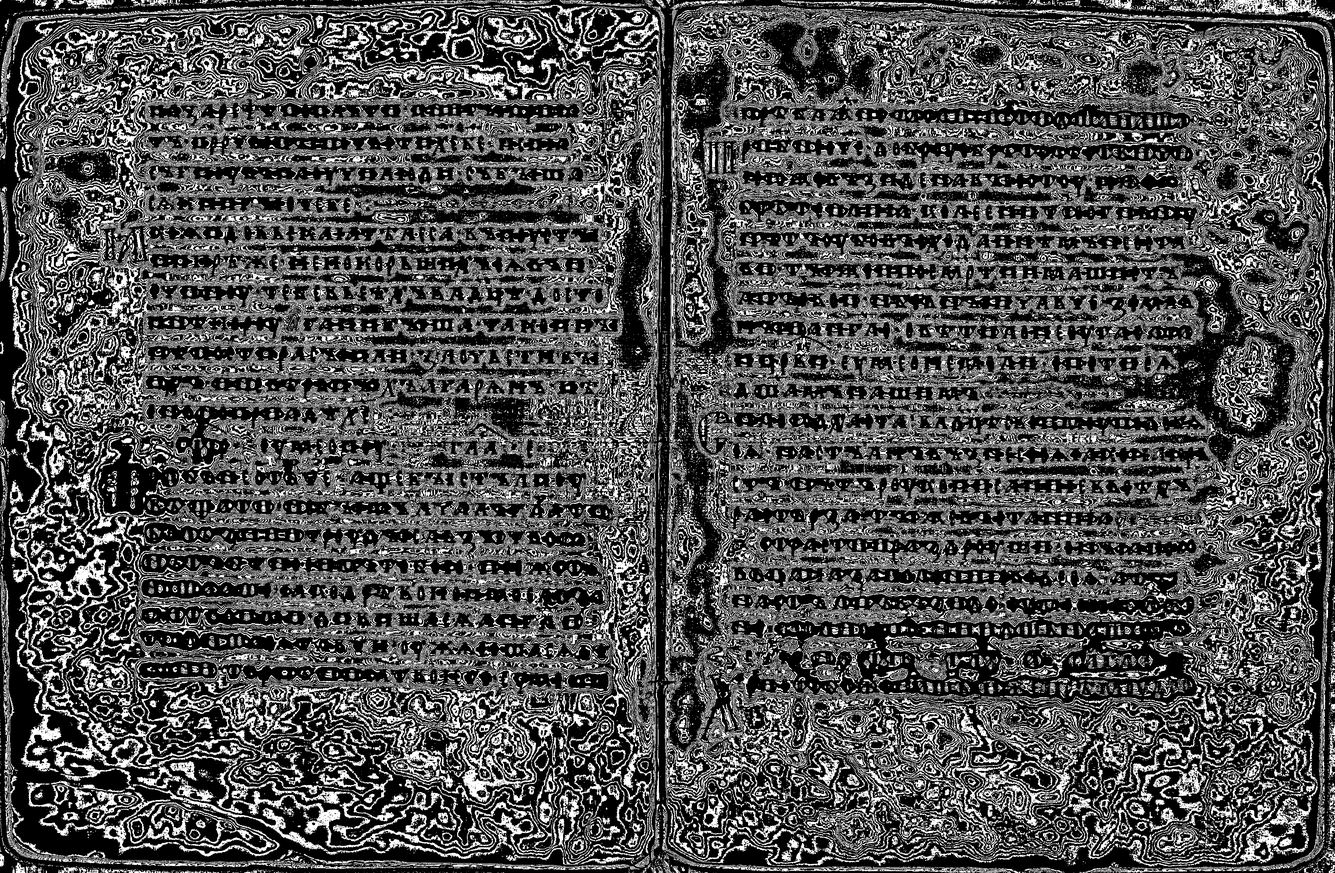
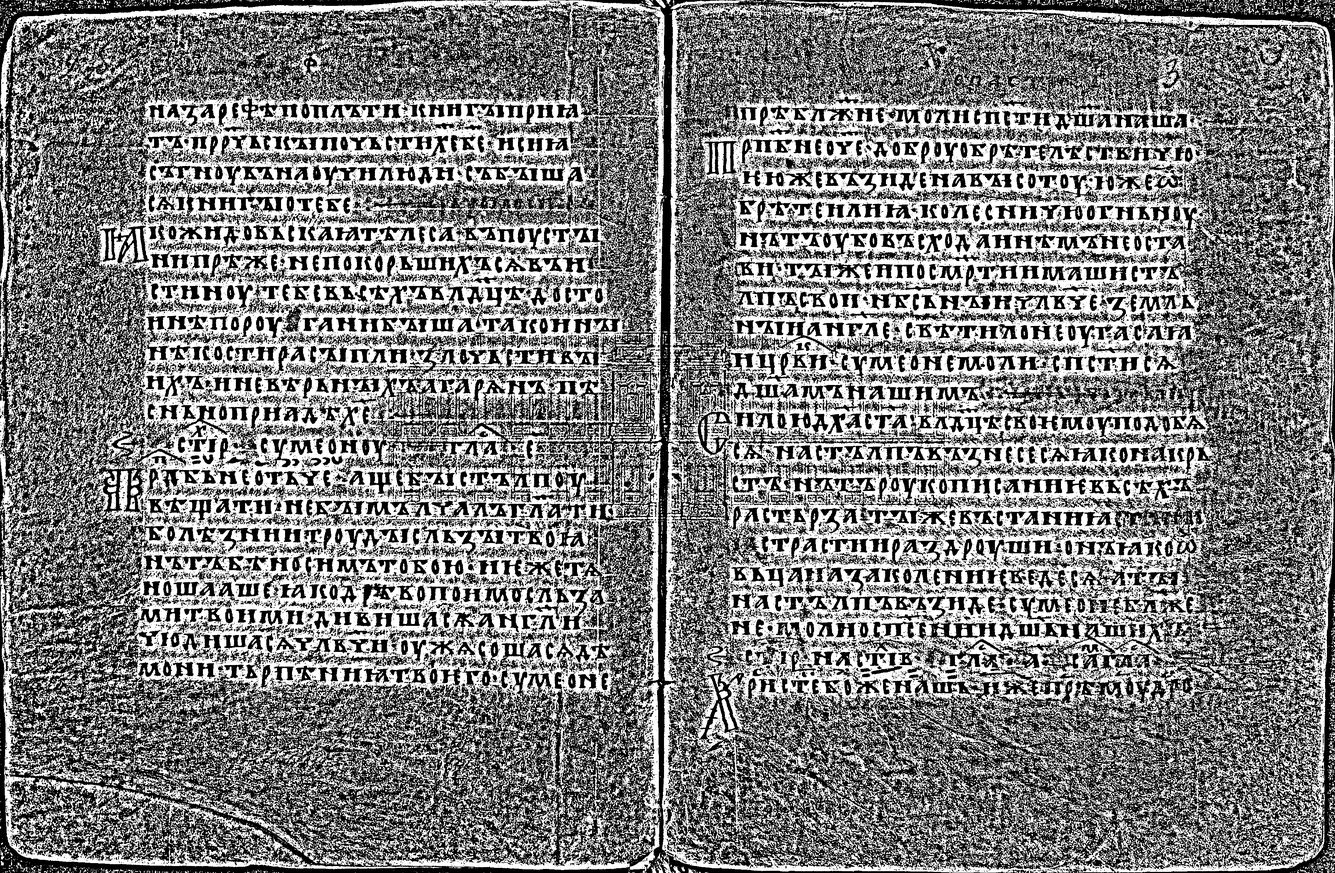
Second lab best parameters variant

diff --git a/2sem/results/2.11/main.py b/2sem/results/2.11/main.py
@@ -13,7 +13,7 @@ def to_semitone(img_name):
     return Image.fromarray(semitone(img), 'L')
 
 
-def nibleck(image, window_size=15, block_size=15, offset=10, k1=0.2, k2 = 0.01, a1=0.1, R=128, gamma = 2):
+def tan(image, window_size=15, k1=0.2, k2 = 0.01, a1=0.1, R=128, gamma = 2):
     image = to_semitone(image)
     img_array = np.array(image)
 
@@ -22,36 +22,13 @@ def nibleck(image, window_size=15, block_size=15, offset=10, k1=0.2, k2 = 0.01, 
     mean_sq = Image.fromarray(img_array).filter(ImageFilter.BoxBlur(window_size)).convert('L').point(lambda x: x ** 2)
     mean_sq_array = np.array(mean_sq)
     variance = mean_sq_array - mean_array ** 2
-
     M = np.min(img_array)
-    a2 = k1 * (variance / R) ** gamma
-    a3 = k2 * (variance / R) ** gamma
+    a2 = k1 * ((variance / R) ** gamma)
+    a3 = k2 * ((variance / R) ** gamma)
     threshold = (1 - a1) * mean_array + a2 * variance / R * (mean_array - M) + a3 * M
-    #threshold = mean_array + k * np.sqrt(variance)
     binary_array = np.where(img_array > threshold, 255, 0).astype(np.uint8)
     binary_image = Image.fromarray(binary_array)
 
-    # height, width = img_array.shape
-    # binary_image = np.zeros_like(img_array)
-    #
-    # for i in range(0, height, block_size):
-    #     for j in range(0, width, block_size):
-    #         block = img_array[i:i+block_size, j:j+block_size]
-    #         #mean_intensity = np.mean(block)
-    #         #threshold = mean_intensity - offset
-    #         mean = Image.fromarray(img_array).filter(ImageFilter.BoxBlur(window_size)).convert('L')
-    #         mean_array = np.array(mean)
-    #         mean_sq = Image.fromarray(img_array).filter(ImageFilter.BoxBlur(window_size)).convert('L').point(lambda x: x ** 2)
-    #         mean_sq_array = np.array(mean_sq)
-    #         variance = mean_sq_array - mean_array ** 2
-    #         M = np.min(img_array)
-    #         a2 = k1 * (variance / R) ** gamma
-    #         a3 = k2 * (variance / R) ** gamma
-    #         threshold = (1 - a1) * mean_array + a2 * variance / R * (mean_array - M) + a3 * M
-    #         binary_block = np.where(block >= threshold, 255, 0)
-    #         binary_image[i:i+block_size, j:j+block_size] = binary_block
-
-    #res = Image.fromarray(binary_image.astype(np.uint8))
     return binary_image
 
 
@@ -63,5 +40,5 @@ if __name__ == '__main__':
     glob = os.listdir(input)
     for input_path in glob:
         curr_opath = os.path.join(output_path, os.path.basename(input_path))
-        result = nibleck(input_path)
+        result = tan(input_path)
         result.save(path.join('output', input_path))
